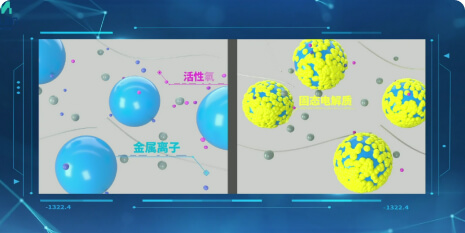
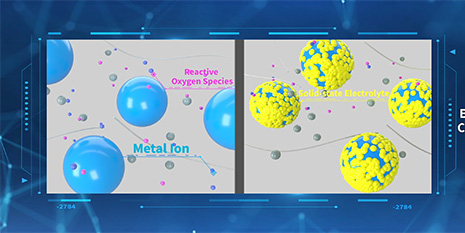
feat: 一些问题修复和翻译多语言

diff --git a/src/app/[locale]/(fullpage)/research/page.tsx b/src/app/[locale]/(fullpage)/research/page.tsx
@@ -285,7 +285,10 @@ export default () => {
                                     objectFit: 'cover',
                                 }}
                             >
-                                <source src="https://files.welion.asia/research/technology_zh.mp4" type="video/mp4" />
+                                <source
+                                    src={`https://files.welion.asia/research/technology_${params.locale || 'zh'}.mp4`}
+                                    type="video/mp4"
+                                />
                             </video>
 
                             <div className={styles.indicators}>
@@ -360,6 +363,7 @@ export default () => {
                                                             width: 100,
                                                             height: 100,
                                                             cursor: 'pointer',
+                                                            pointerEvents: 'none',
                                                         }}
                                                     />
                                                 </AspectRatio>

diff --git a/src/app/[locale]/(normal)/manufacture/page.tsx b/src/app/[locale]/(normal)/manufacture/page.tsx
@@ -1,5 +1,8 @@
+'use client';
+
 import { Popover } from 'antd';
 import Link from 'next/link';
+import { useParams } from 'next/navigation';
 
 /**
  * Components
@@ -12,6 +15,11 @@ import AspectRatio from '@/components/aspect-ratio';
 import styles from './styles.module.scss';
 
 export default () => {
+    /**
+     * Params
+     */
+    const params = useParams();
+
     return (
         <div className="mw-1920">
             <AspectRatio ratio={16 / 9}>
@@ -26,7 +34,10 @@ export default () => {
                         objectFit: 'cover',
                     }}
                 >
-                    <source src="https://files.welion.asia/research/liucheng.mp4" type="video/mp4" />
+                    <source
+                        src={`https://files.welion.asia/research/liucheng_${params.locale || 'zh'}.mp4`}
+                        type="video/mp4"
+                    />
                 </video>
 
                 {/* 点位 1 */}

diff --git a/src/app/[locale]/(fullpage)/about-us/global-layout/page.tsx b/src/app/[locale]/(fullpage)/about-us/global-layout/page.tsx
@@ -738,7 +738,7 @@ export default () => {
                                 <div style={{ width: '340px' }}>
                                     {/* 全选内容 */}
                                     {currentTab === 0 && (
-                                        <Flex gap={20} vertical>
+                                        <Flex gap={10} vertical>
                                             <div className={styles.tit01}>
                                                 <span style={{ color: '#FF3539' }}>●</span>总部
                                             </div>

diff --git a/src/app/[locale]/(normal)/index/hero.tsx b/src/app/[locale]/(normal)/index/hero.tsx
@@ -242,7 +242,7 @@ const Hero: React.FC<HeroProps> = ({ onVideoReady }) => {
                 <img
                     alt=""
                     className={styles.exhibition}
-                    src="/static/index/exhibition.png"
+                    src={`/static/index/exhibition_${params.locale || 'zh'}.png`}
                     onClick={() => setState({ open: true })}
                 />
             </AspectRatio>

diff --git a/src/app/[locale]/(fullpage)/about-us/styles.module.scss b/src/app/[locale]/(fullpage)/about-us/styles.module.scss
@@ -412,10 +412,13 @@
 
 // 总部&分公司
 .tit01 {
-    margin-bottom: 16px;
-    font-size: 48px;
+    font-size: 26px;
     line-height: 56px;
     color: #2dafb7;
+
+    span {
+        margin-right: 15px;
+    }
 }
 
 .tit02 {
